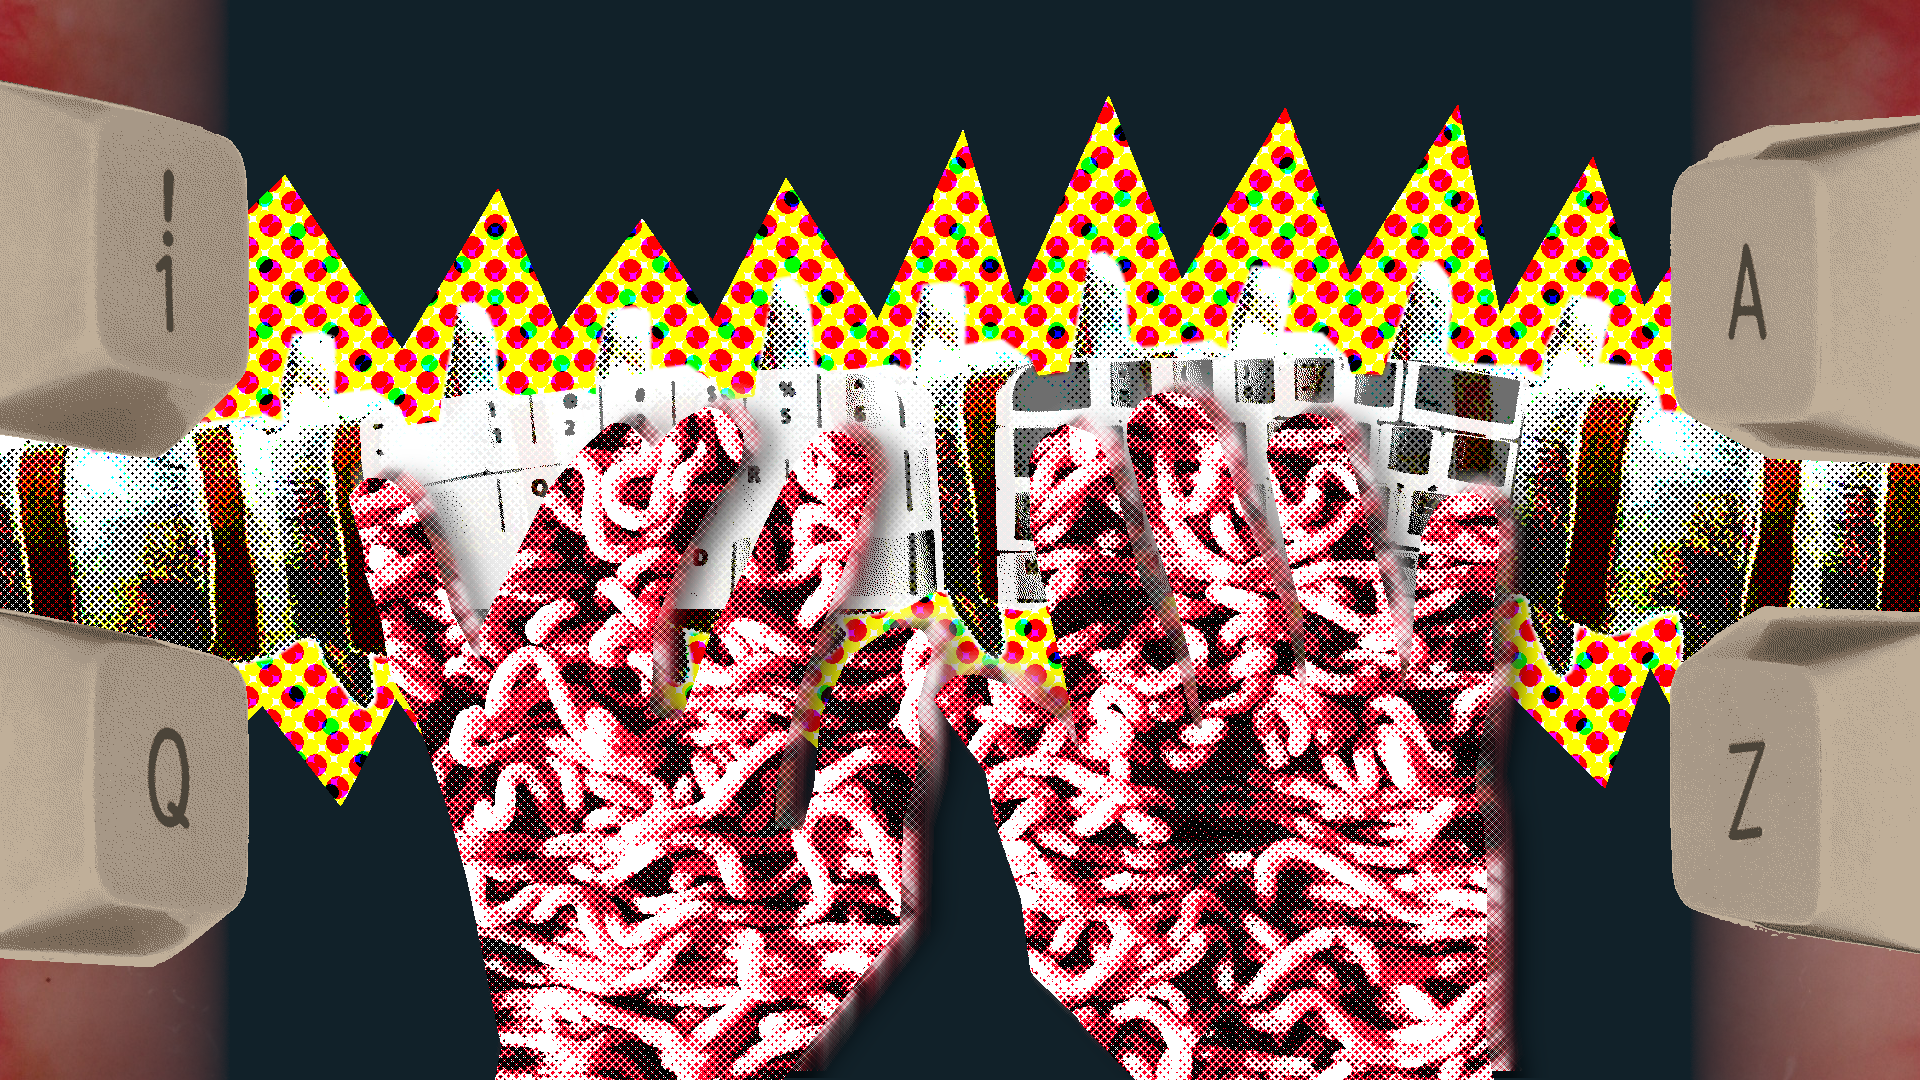
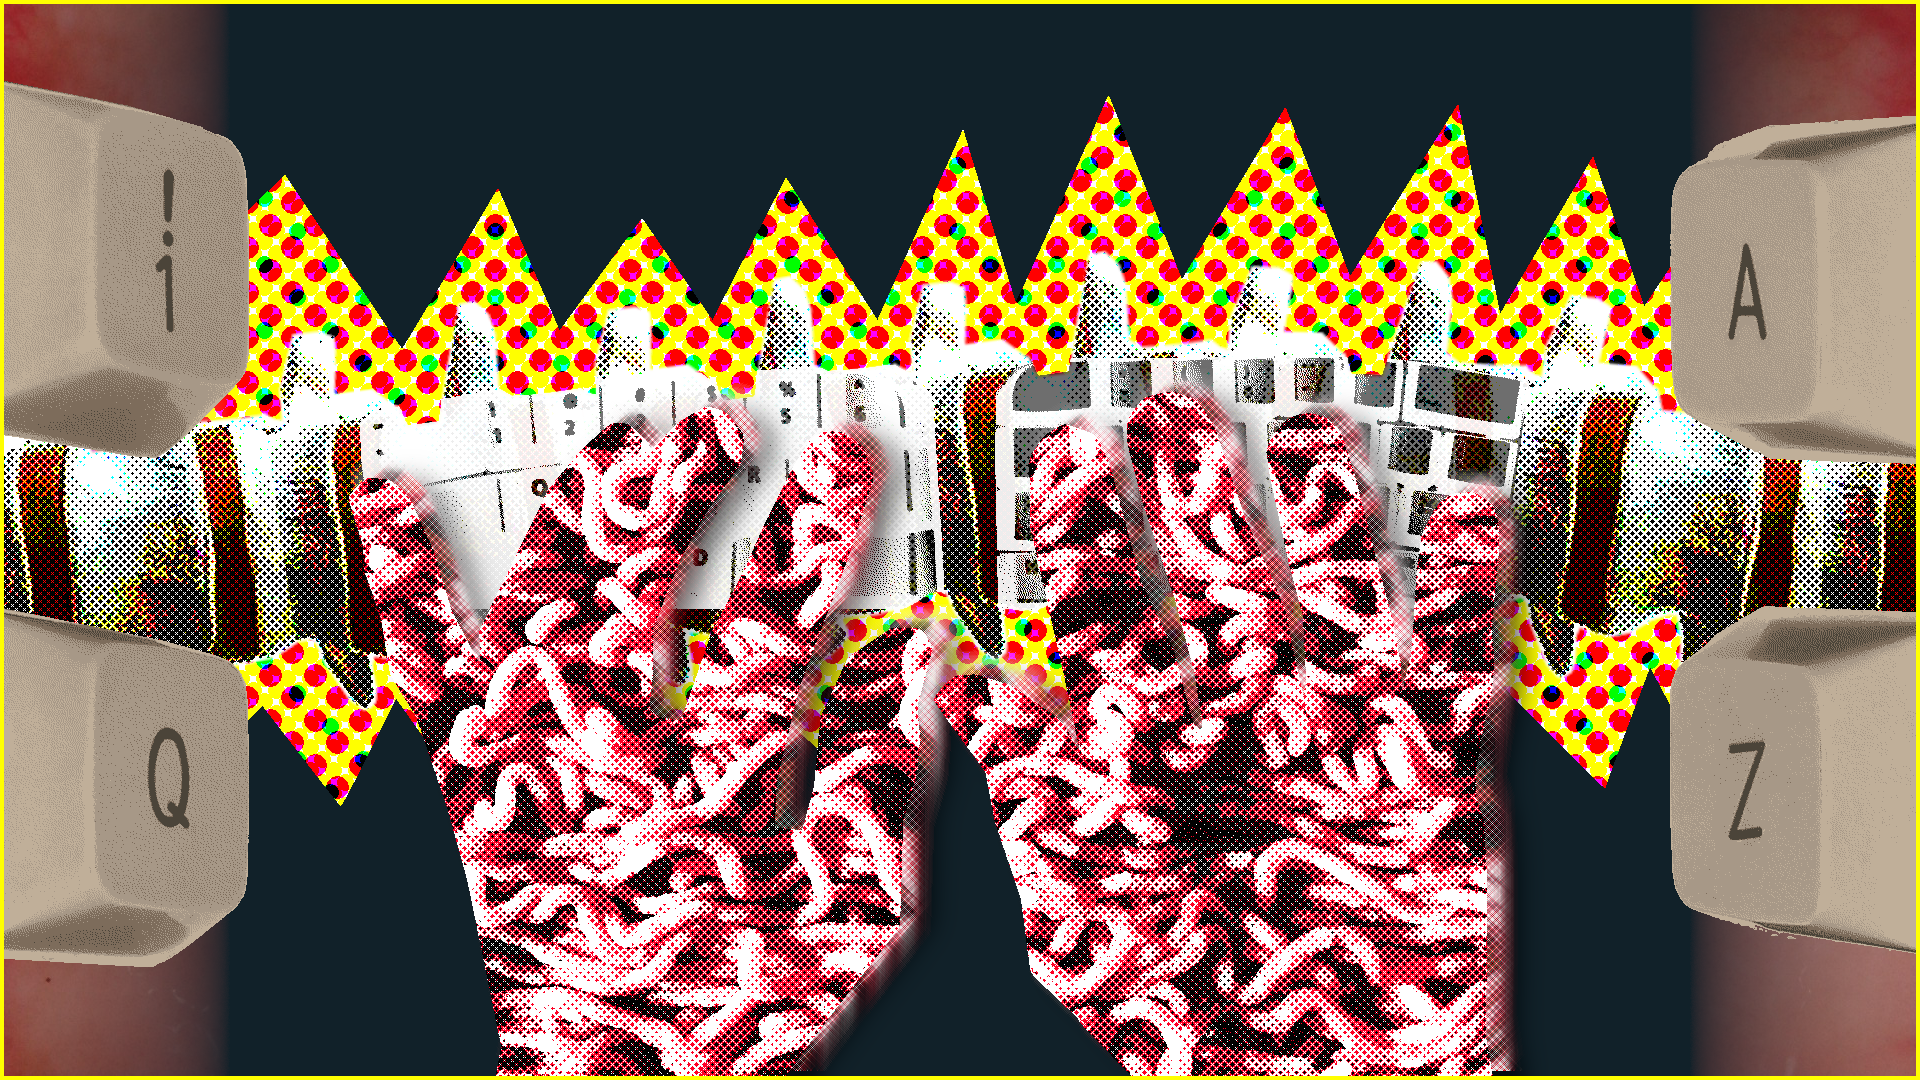
border images

Changed region(s): [[0.0, 0.9778, 1.0, 1.0], [0.0, 0.0, 1.0, 0.0306]]

diff --git a/src/components/GalleryMainView.vue b/src/components/GalleryMainView.vue
@@ -5,12 +5,7 @@ import { galleryState } from '@/galleryState';
 
 <template>
     <section id="mainview" :class="{
-      intro: galleryState.position == 0,
-      flowers: galleryState.position == 1,
-      angel: galleryState.position == 2,
-      stretch: galleryState.position == 3,
-      user: galleryState.position == 4,
-      hill: galleryState.position == 5
+      intro: galleryState.position == 0
       }">
       <Transition mode="out-in">
         <section class="titles" v-if="galleryState.position == 0 && galleryState.displayIntro == false">
@@ -89,52 +84,23 @@ import { galleryState } from '@/galleryState';
   }
 
 
-  .flowers {
-    border: 2px solid $flower-green;
-    outline-offset: 0rem;
-    outline: 1rem solid transparent;
-
-  }
-
-  .angel {
-    border: 2px solid $angel-red;
-    outline: none;
-  }
-
-  .stretch {
-    border: 2px solid $stretch-highlight;
-  }
-
-  .user {
-    border: 2px solid white;
-  }
-
-  .hill {
-    border: 2px solid $hill-fg;
-  }
-
-
   .img_flowers {
     background-image: url('../assets/img/flowers.png');
   }
 
   .img_angel {
-    background-color: black;
     background-image: url('../assets/img/angel.png');
   }
 
   .img_stretch {
-    background-color: $stretch-highlight;
     background-image: url('../assets/img/stretch.png');
   }
 
   .img_user {
-    background-color: black;
     background-image: url('../assets/img/user.png');
   }
 
   .img_hill {
-    background-color: $hill-bg;
     background-image: url('../assets/img/hill.png');
   }
 </style>

diff --git a/index.html b/index.html
@@ -3,7 +3,7 @@
   <head>
     <meta charset="UTF-8">
     <meta name="viewport" content="width=device-width, initial-scale=1.0">
-    <link rel="icon" type="image/x-icon" href="/public/favicon.ico">
+    <link rel="icon" type="image/x-icon" href="/favicon.ico">
     <link rel="preload" as="image" href="src/assets/img/flowers.png">
     <link rel="preload" as="image" href="src/assets/img/angel.png">
     <link rel="preload" as="image" href="src/assets/img/stretch.png">

diff --git a/README.md b/README.md
@@ -4,4 +4,8 @@ live preview!
 download npm run dev or check out the live deploy
 
 TODO:
-- accessibility audit / aria roles
+- image zoom
+- image borders
+- investigate wtf is going on with power icon on mobile
+- sideways titles for mob
+    + accessibility on titles
